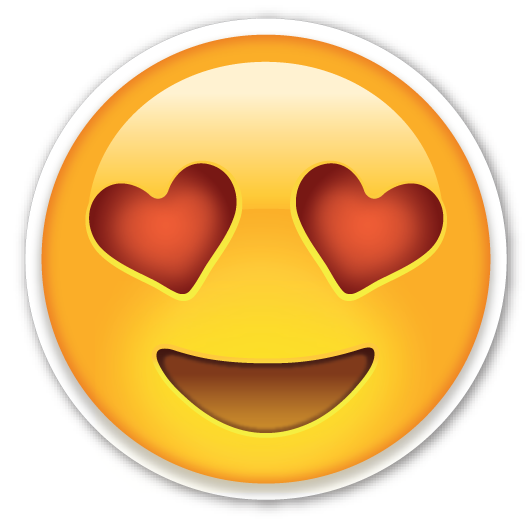
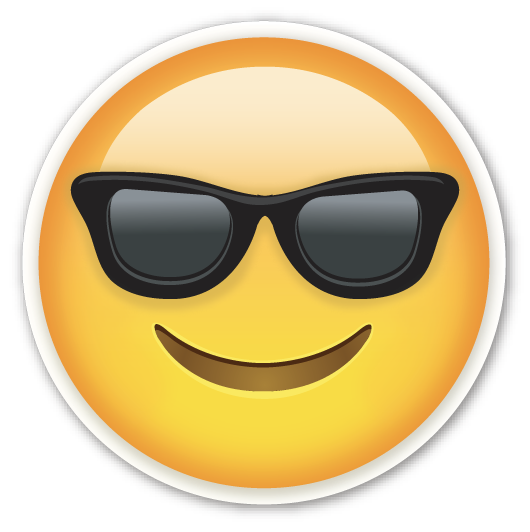
rubi

diff --git a/app/src/main/java/com/example/composetutorial/MainActivity.kt b/app/src/main/java/com/example/composetutorial/MainActivity.kt
@@ -126,8 +126,14 @@ fun Content() {
 }
 
 private fun getPic(angl: Double): Int {
-    pic = if (angle>0 && angl<180) {R.raw.pic1}
-    else {R.raw.pic2}
+    when (angl) {
+        in 1.0..72.0 -> pic =  R.raw.pic2
+        in 72.1..144.0 -> pic =  R.raw.pic3
+        in 144.1..216.0 -> pic =  R.raw.pic4
+        in 216.1..288.0 -> pic =  R.raw.pic5
+        in 288.1..360.0 -> pic =  R.raw.pic1
+        else -> print("none of the above")
+    }
     return pic
 }
 
